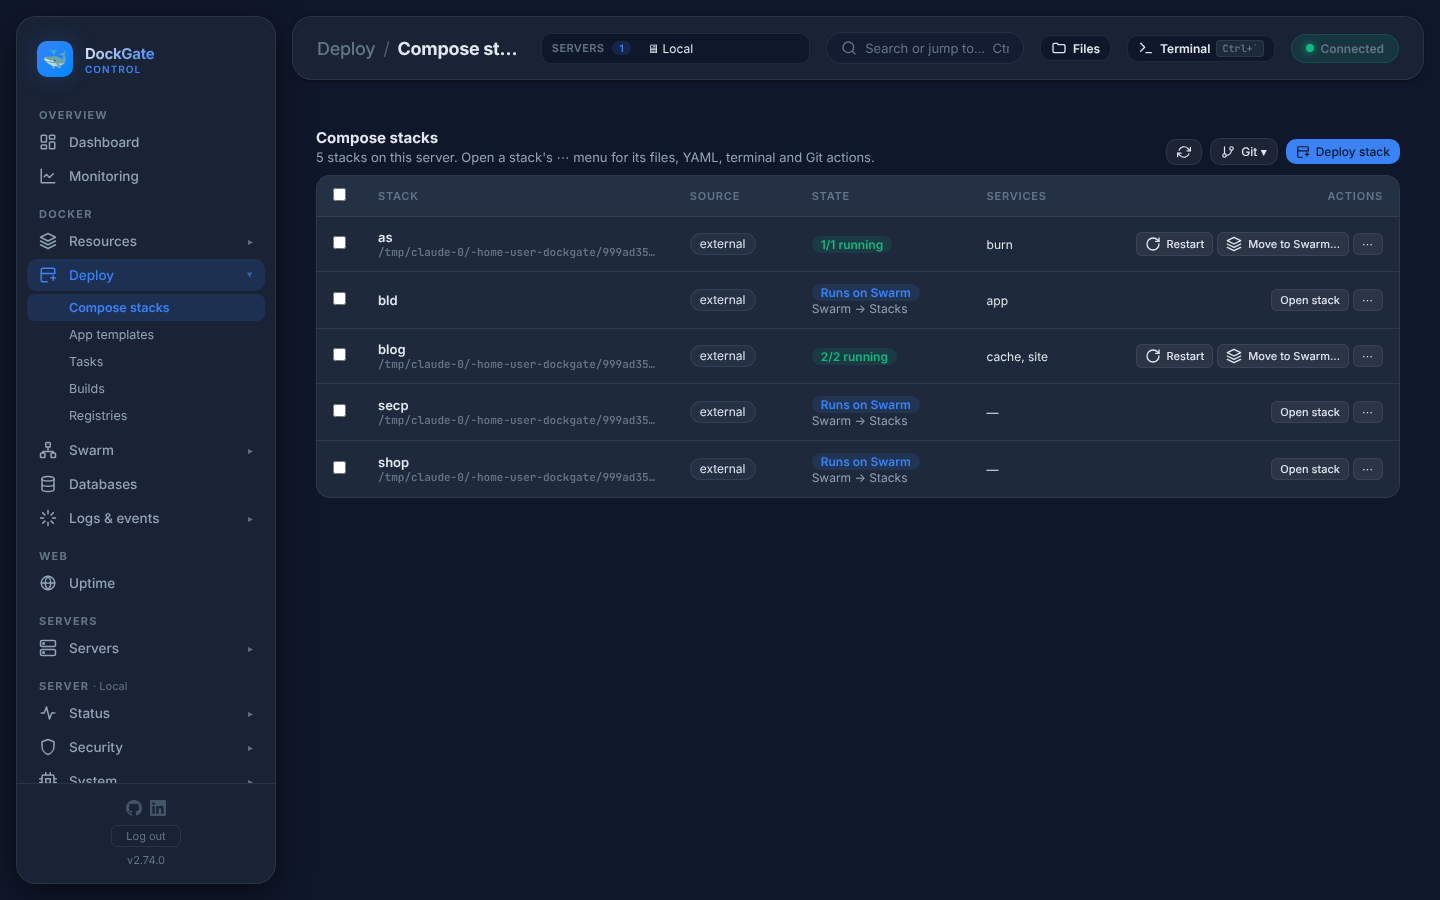
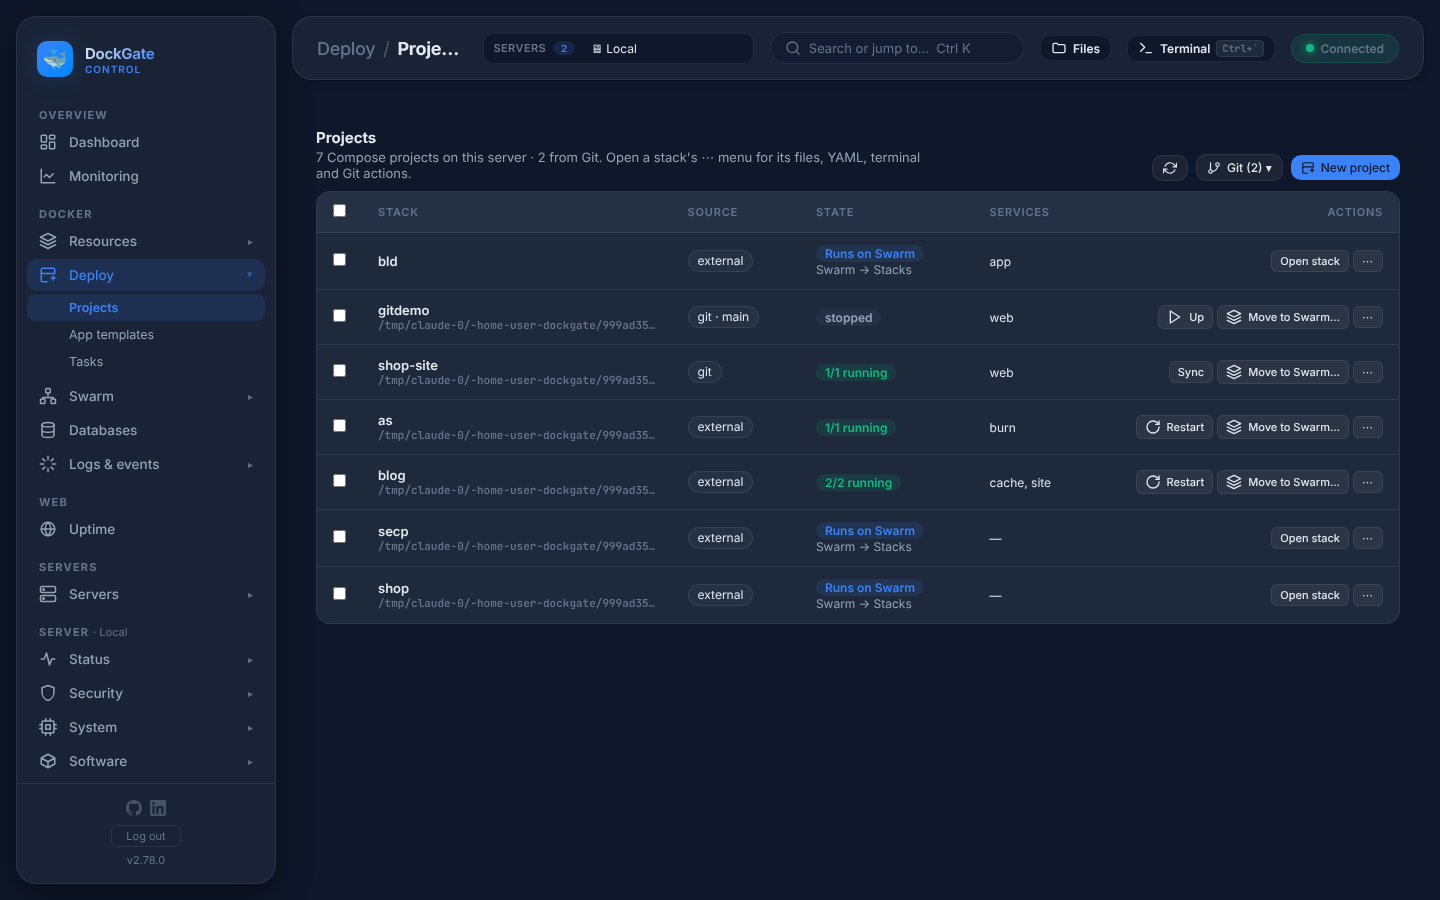
Tests for one way to deploy; README and guide screenshots, demo GIF with New project and a project's page

diff --git a/test/unit/tasks.test.js b/test/unit/tasks.test.js
@@ -308,3 +308,59 @@ test('Local server: a task and a recipe run where DockGate runs, with the folder
   assert.equal(rr.status, 'ok'); assert.match(rr.text, /step-one/);
   fs.rmSync(d, { recursive: true, force: true });
 });
+
+test('One way to deploy: the stack webhook runs the folder recipe, and the recipe lands in the stack deploy history', async () => {
+  const R = require('../../server/task-recipes');
+  const { COMPOSE_DIR } = require('../../server/routes/compose-shared');
+  const express = require('express');
+  const project = 'rcdemo-' + Date.now().toString(36);
+  const dir = path.join(COMPOSE_DIR, project);
+  fs.mkdirSync(dir, { recursive: true });
+  fs.writeFileSync(path.join(dir, 'docker-compose.yml'), 'services: {}\n');
+  fs.writeFileSync(path.join(dir, '.dockgate-git.json'), JSON.stringify({ repoUrl: 'https://example.invalid/r.git', branch: 'main', secret: 'k3y', serverId: 'local', deployMode: 'local' }));
+  fs.writeFileSync(path.join(dir, '.dockgate-deploy.json'), JSON.stringify({ mode: 'local', serverId: 'local', workingDir: dir, composeFile: 'docker-compose.yml', source: 'git' }));
+  // compose_up only in the recovery steps: the run does not need Docker, but it counts as a compose deploy
+  const rec = R.save('local', dir, { name: 'Stack recipe', steps: [{ type: 'command', cmd: 'echo deployed-by-recipe' }], onFail: [{ type: 'compose_up', build: false }], settings: { notify: { fail: false } } });
+  const app = express(); app.use(express.json()); app.use('/api/compose', require('../../server/routes/compose'));
+  const srv = await new Promise(res => { const s = app.listen(0, () => res(s)); });
+  try {
+    const base = `http://127.0.0.1:${srv.address().port}/api/compose/webhook/${project}`;
+    assert.equal((await fetch(`${base}?key=wrong`, { method: 'POST' })).status, 403);
+    const r = await (await fetch(`${base}?key=k3y`, { method: 'POST' })).json();
+    assert.equal(r.recipe, 'Stack recipe'); assert.ok(r.run);
+    const done = await wait(r.run);
+    assert.equal(done.status, 'ok'); assert.match(done.text, /deployed-by-recipe/);
+    let row = null;
+    for (let i = 0; i < 50 && !row; i++) { row = db.prepare("SELECT * FROM compose_deploys WHERE project = ? AND kind = 'recipe'").get(project); if (!row) await new Promise(x => setTimeout(x, 100)); }
+    assert.ok(row, 'the recipe run is in the stack deploy history');
+    assert.equal(row.status, 'done'); assert.equal(row.server_id, 'local');
+    assert.equal(JSON.parse(row.details).recipe, 'Stack recipe');
+    R.remove(rec.id);
+  } finally { srv.close(); fs.rmSync(dir, { recursive: true, force: true }); }
+});
+
+test('One way to deploy: a Git sync schedule runs the folder recipe when the branch moved, then not again', async () => {
+  const R = require('../../server/task-recipes');
+  const { COMPOSE_DIR } = require('../../server/routes/compose-shared');
+  const compose = require('../../server/routes/compose');
+  const sh = (cwd, cmd) => require('child_process').execSync(cmd, { cwd, stdio: ['ignore', 'pipe', 'pipe'] }).toString().trim();
+  const bare = fs.mkdtempSync(path.join(os.tmpdir(), 'dg-sync-')) + '/r.git';
+  sh(os.tmpdir(), `git init -q --bare ${bare}`);
+  const src = fs.mkdtempSync(path.join(os.tmpdir(), 'dg-sync-src-'));
+  sh(src, 'git init -q && echo a > a && git add a && git -c user.name=t -c user.email=t@t commit -qm one && git branch -M main');
+  sh(src, `git push -q ${bare} main`);
+  const head = sh(src, 'git rev-parse HEAD');
+  const project = 'rcsync-' + Date.now().toString(36);
+  const dir = path.join(COMPOSE_DIR, project);
+  fs.mkdirSync(dir, { recursive: true });
+  fs.writeFileSync(path.join(dir, '.dockgate-git.json'), JSON.stringify({ repoUrl: 'file://' + bare, branch: 'main', serverId: 'local', deployMode: 'local', deployedCommit: '' }));
+  fs.writeFileSync(path.join(dir, '.dockgate-deploy.json'), JSON.stringify({ mode: 'local', serverId: 'local', workingDir: dir, composeFile: 'docker-compose.yml', source: 'git' }));
+  const rec = R.save('local', dir, { name: 'Sync recipe', steps: [{ type: 'command', cmd: 'echo synced' }], settings: { notify: { fail: false } } });
+  try {
+    const out = await compose.scheduledGitSync('local', [project]);
+    assert.equal(out.length, 1); assert.equal(out[0].status, 'deployed'); assert.match(out[0].message, /recipe Sync recipe/);
+    assert.equal(JSON.parse(fs.readFileSync(path.join(dir, '.dockgate-git.json'), 'utf8')).deployedCommit, head, 'the deployed commit moves on');
+    const again = await compose.scheduledGitSync('local', [project]);
+    assert.equal(again[0].status, 'unchanged');
+  } finally { R.remove(rec.id); fs.rmSync(dir, { recursive: true, force: true }); }
+});

diff --git a/server/routes/compose.js b/server/routes/compose.js
@@ -887,7 +887,7 @@ async function captureComposeFiles(project) {
 async function recordDeploy({ project, kind, status, error, sourceIp, startedAt, finishedAt, details = null, serverId: sid = null, noFiles = false, gitCommit = null }) {
   try {
     if (!validateProjectName(project)) return;
-    const files = status === 'done' && !noFiles ? await captureComposeFiles(project) : null;
+    const files = status === 'done' && !noFiles ? await captureComposeFiles(project).catch(() => null) : null; // no files when Docker can not be asked — the entry is kept
     const git = readGitMeta(project), dm = readDeployMeta(project);
     const source = git ? 'git' : (dm && dm.source) || kind || 'deploy';
     const json = files ? JSON.stringify(files) : null;

diff --git a/CHANGELOG.md b/CHANGELOG.md
@@ -9,6 +9,13 @@
 - **Deploy** holds what deploys: **Projects** (was Compose stacks), App templates, Tasks.
 - **Builds** moved to **Resources** (next to Images); **Registries** moved to **Settings → Registry logins**. Old links (`#/deploy?tab=builds`, `#/deploy?tab=registries`, `#/infra?tab=registries`, `#/builds`, `#/registries`) open the new places.
 - Guide and README: the new names and places.
+- README: new screenshots (Projects, App templates, Tasks, a project's page, New project) and a new demo GIF with New project and a project's page; guide pictures of the Deploy pages, Builds and Registry logins taken again.
+
+### Fixed
+- The deploy history keeps an entry even when Docker can not be asked for the compose files at that moment.
+
+### Tests
+- The stack webhook runs the folder's recipe and the run lands in the stack's deploy history; a Git sync schedule runs the recipe when the branch moved, records the commit, and does nothing the next time.
 
 ---
 

diff --git a/README.md b/README.md
@@ -127,6 +127,10 @@ Never add `:z` / `:Z` to the `/var/run/docker.sock` mount.
 <td width="50%"><img src="screenshots/34-databases.png" alt="Databases"><br><sub><b>Databases</b> — Explorer, tabs, right-click menus, data, design, SQL</sub></td>
 <td width="50%"><img src="screenshots/35-tasks.png" alt="Tasks"><br><sub><b>Tasks</b> — Makefile, npm, scripts, deploy recipes</sub></td>
 </tr>
+<tr>
+<td width="50%"><img src="screenshots/37-project.png" alt="A project's page"><br><sub><b>A project's page</b> — Overview, Services, Files, Deploys, Automation (auto-deploy in one click), Settings</sub></td>
+<td width="50%"><img src="screenshots/38-new-project.png" alt="New project"><br><sub><b>New project</b> — Git, a folder, already on the server, YAML, template, or connect a stack to Git</sub></td>
+</tr>
 </table>
 
 **Docker Swarm**
